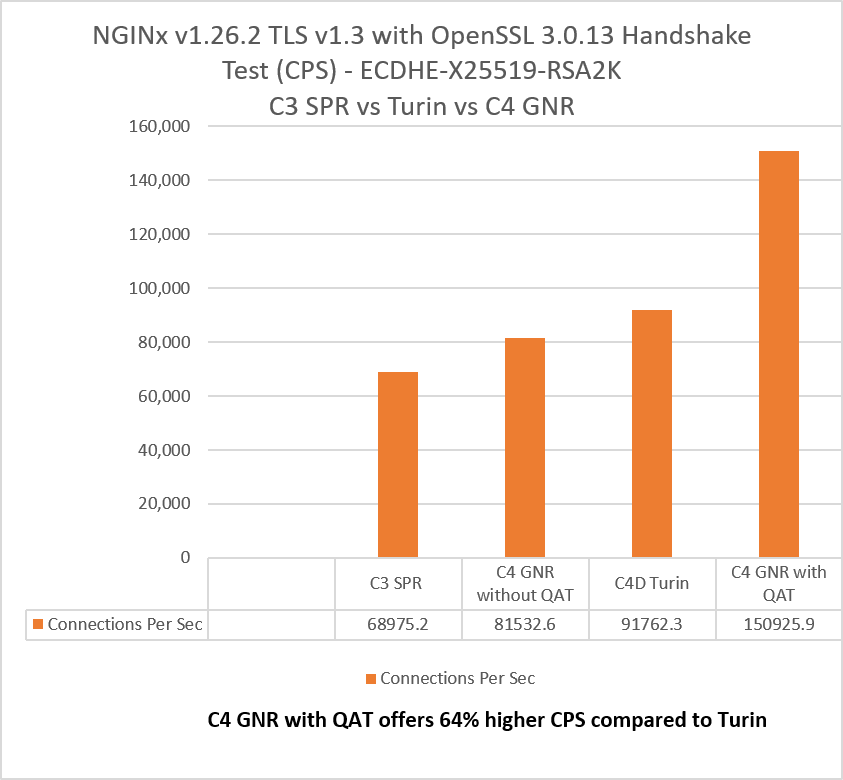
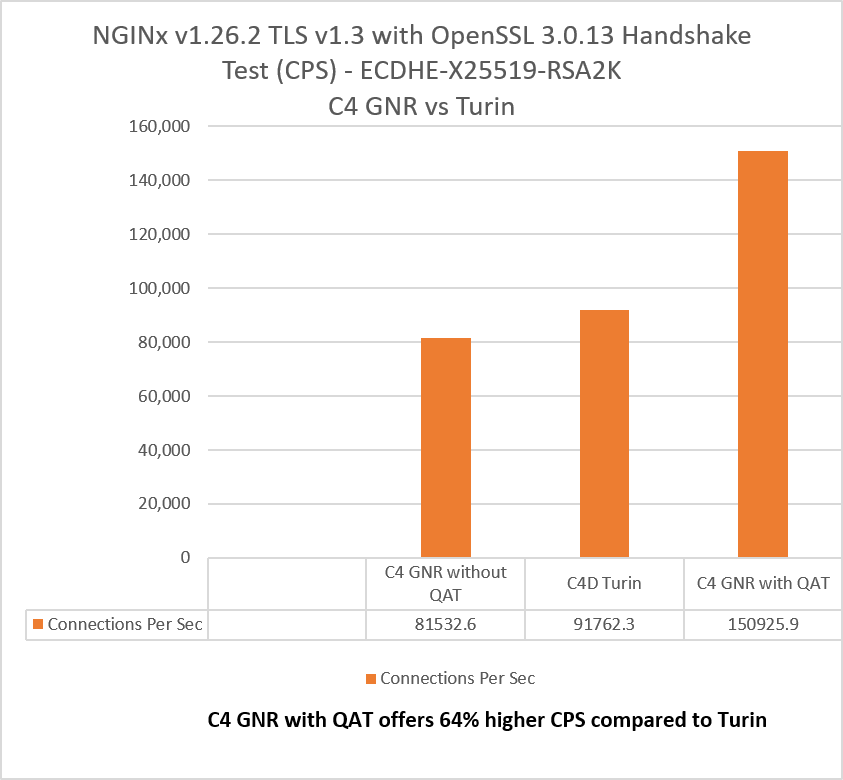
Update results chart and reconcile Details references
Replace the CPS chart with a version that drops the C3 SPR bar, so
every bar plotted has a corresponding configuration disclosure.

Update the Results text to reference the Xeon 6985P
(c4-highmem-288-metal) rather than the 6980P, matching the Details
section, and reword the worker_processes note so it no longer implies
a specific core-count ratio.

Correct the C4D entry to say Turin rather than GNR and drop QATEngine
from its software list, since QAT is not available on that platform.

Changed region(s): [[0.4318, 0.1846, 0.987, 0.8308], [0.3084, 0.1231, 0.6785, 0.1538]]

diff --git a/software/nginx/README.md b/software/nginx/README.md
@@ -236,7 +236,7 @@ The client count, duration, port, and cipher are set in the USER INPUT block at 
 
 ### Core Allocation and `worker_processes`
 
-Both configuration files set `worker_processes 48`, which is deliberately a fraction of the cores available on the test system rather than all of them.
+Both configuration files set `worker_processes 48`, which is deliberately fewer than the cores available on the test system rather than all of them.
 
 This reflects the scenario the guide is intended to demonstrate.  In a real deployment, a web tier rarely has an entire high-core-count server to itself — it shares the machine with application, caching, or database workloads.  The question that matters is therefore not "what peak CPS can this server reach with every core dedicated to NGINX," but "how much TLS throughput can be delivered from a modest slice of the machine, leaving the rest for other work."
 
@@ -244,15 +244,15 @@ Offloading handshake cryptography to the QAT devices is what makes that slice go
 
 ## Results
 
-![NGINX TLS handshake CPS, C3 SPR vs C4D Turin vs C4 GNR with and without QAT](image.png)
+![NGINX TLS handshake CPS, C4D Turin vs C4 GNR with and without QAT](image.png)
 
-Intel® QAT is only exposed on bare-metal cloud instances, so this comparison is run there rather than on virtualized shapes.  The two C4 GNR bars are the same bare-metal Intel Xeon 6980P system described under [Details](#details), both running `worker_processes 48`, with the QAT modules and QAT engine as the only variable between them — the "without QAT" bar corresponds to `nginx_without_qat.conf` and the "with QAT" bar to `nginx_with_qat.conf`.  The C4D Turin instance is likewise bare metal, so the cross-platform comparison holds the provisioning model constant as well.
+Intel® QAT is only exposed on bare-metal cloud instances, so this comparison is run there rather than on virtualized shapes.  The two C4 GNR bars are the same bare-metal Intel Xeon 6985P system (`c4-highmem-288-metal`) described under [Details](#details), both running `worker_processes 48`, with the QAT modules and QAT engine as the only variable between them — the "without QAT" bar corresponds to `nginx_without_qat.conf` and the "with QAT" bar to `nginx_with_qat.conf`.  The C4D Turin instance is likewise bare metal, so the cross-platform comparison holds the provisioning model constant as well.
 
 ## Details
 
 NGINX on GNR (c4-highmem-288-metal), bare metal: Intel(R) Xeon(R) 6985P, 144 cores, 500W TDP, HT On, Turbo On, NUMA 6, Total Memory 2232GB, microcode 0x1000380, 4 QAT engines, Ubuntu 24.04 LTS, 6.14.0-gcp. Test by Intel as of Oct 6, 2025, async_mode_nginx version 1.0.0, nginx 1.26.2, OpenSSL 3.0.13, QATEngine 2.0.0
 
-NGINX on GNR (c4d-highmem-384-metal), bare metal: AMD(R) EPYC(R) 9B45, 192 cores, HT On, Turbo On, NUMA 2, Total Memory 3072GB, microcode 0xb002150, Ubuntu 24.04 LTS, 6.14.0-gcp. Test by Intel as of Oct 6, 2025, async_mode_nginx version 1.0.0, nginx 1.26.2, OpenSSL 3.0.13, QATEngine 2.0.0
+NGINX on Turin (c4d-highmem-384-metal), bare metal: AMD(R) EPYC(R) 9B45, 192 cores, HT On, Turbo On, NUMA 2, Total Memory 3072GB, microcode 0xb002150, Ubuntu 24.04 LTS, 6.14.0-gcp. Test by Intel as of Oct 6, 2025, async_mode_nginx version 1.0.0, nginx 1.26.2, OpenSSL 3.0.13
 
 Results may vary.
 
